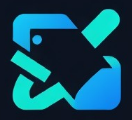
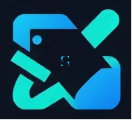
updated the ui

diff --git a/components/Header.jsx b/components/Header.jsx
@@ -23,7 +23,7 @@ const Header = () => {
     return (
         <>
         <View style={style.container}>
-            <Image source={require('../assets/images/react-logo.png')} style={style.logo} />
+            <Image source={require('../assets/images/icon.png')} style={style.logo} />
             <Text style={style.text}>SmartNote</Text>
             <Pressable style={style.button} onPress={toggleModal}>
                 <Entypo name="dots-three-vertical" size={24} color={theme.tint} />

diff --git a/app/index.jsx b/app/index.jsx
@@ -67,10 +67,10 @@ const styles = (theme, colorScheme) => ({
     bottom: 0,
     alignItems: 'center',
     borderRadius: 50,
-    borderWidth: 2,
+    borderWidth: 5,
     borderColor: theme.tint,
     // padding: 3,
-    marginBottom: 5,
+    marginBottom: 20,
     justifyContent: 'center',
   },
 });
